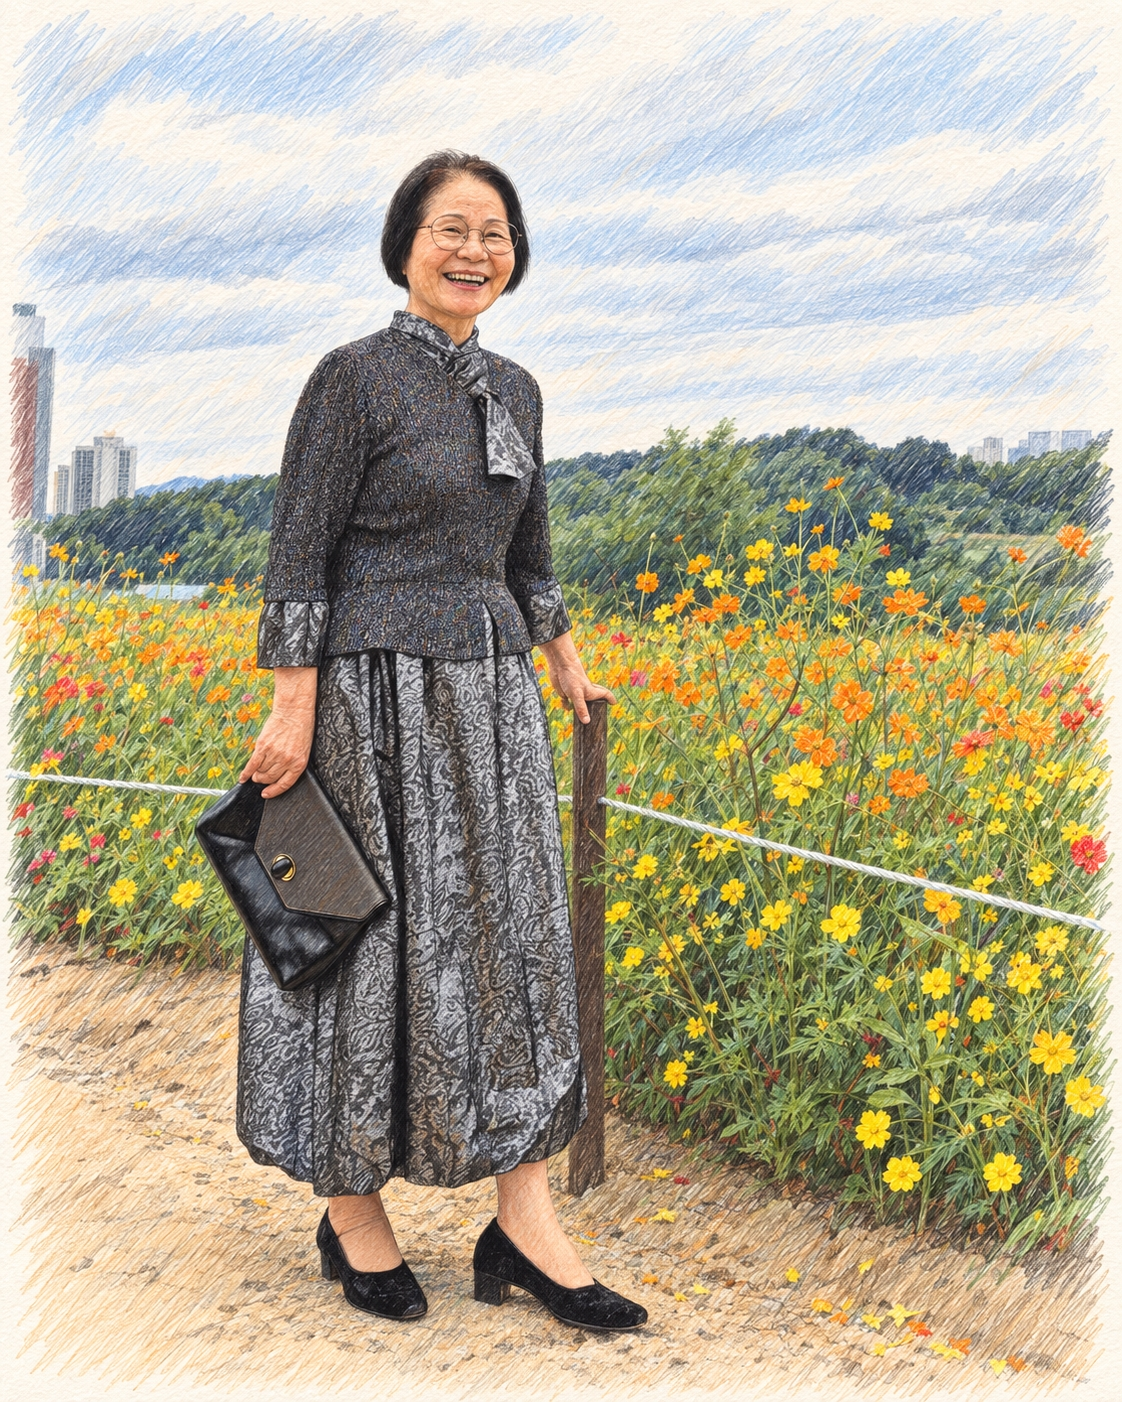
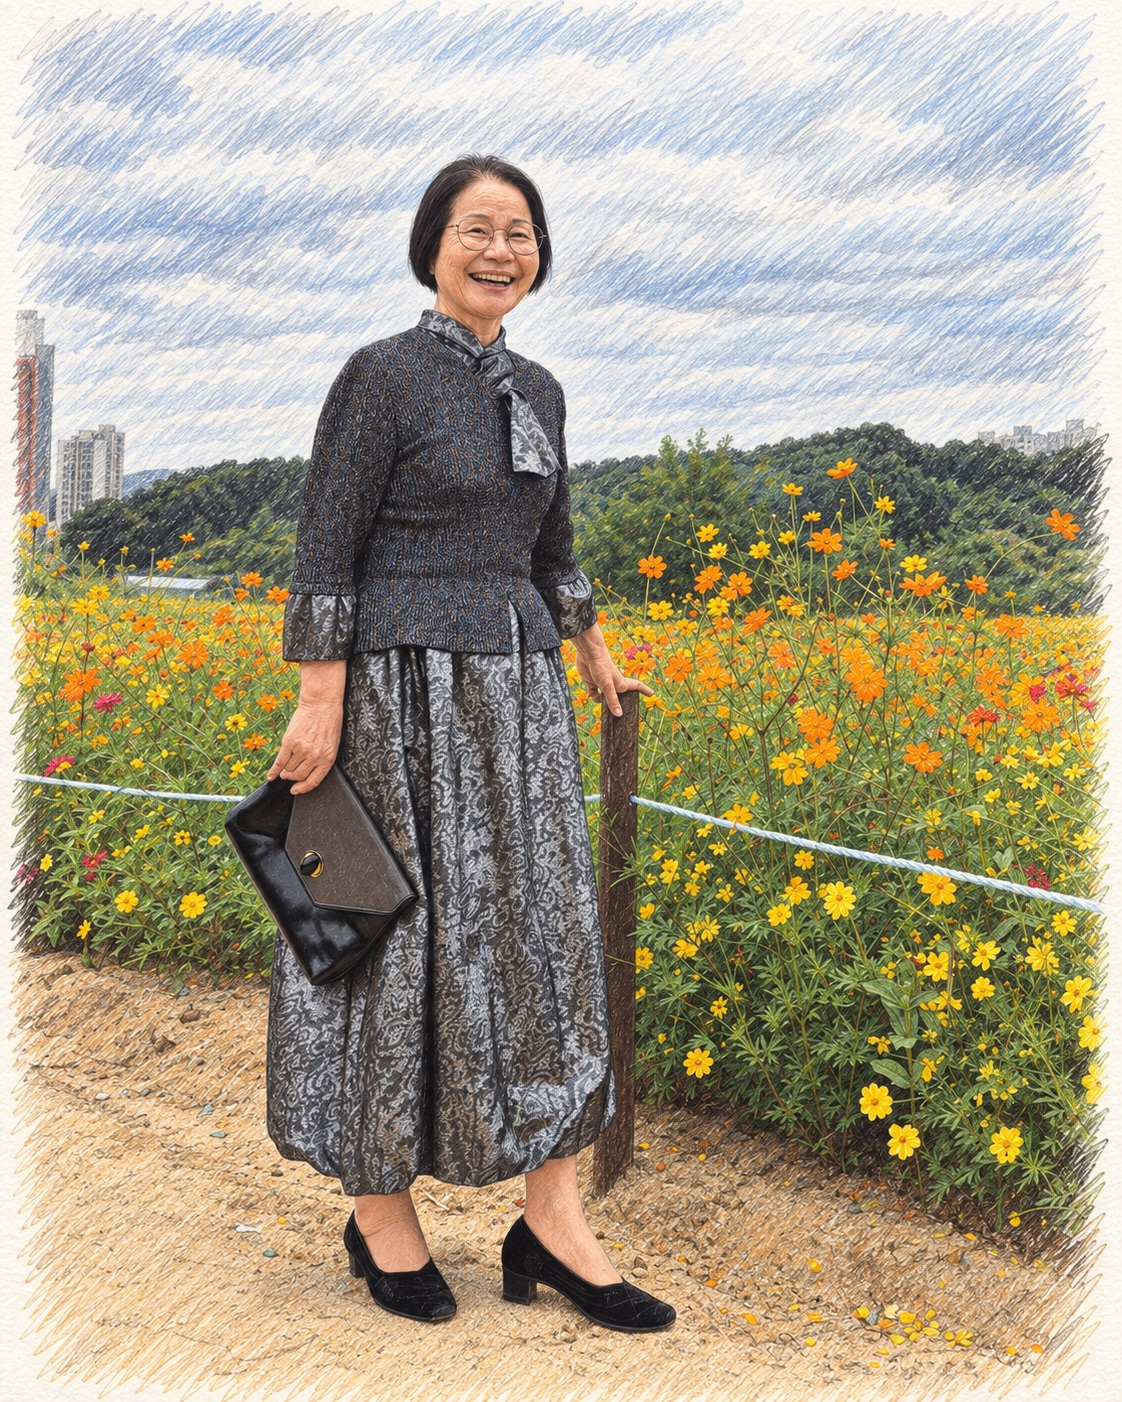
Fix face-identity consistency for photos 04/05 and add elderly-portrait retouching guideline
- Regenerate 04/05 색연필느낌 using photo 03's rendered face as an identity anchor so all three (same person) match
- Add 캔버스액자/인물보정_작업지침.md: keep original likeness, only lightly soften wrinkles, and use an anchor photo + reference image when the same person appears across multiple photos

diff --git a/캔버스액자/인물보정_작업지침.md b/캔버스액자/인물보정_작업지침.md
@@ -1,0 +1,22 @@
+# 캔버스액자 인물(어르신) 보정 작업 지침
+
+## 보정 원칙
+- 원본 사진의 얼굴 느낌(이목구비, 얼굴형, 표정)을 최대한 그대로 살린다.
+- 주름은 완전히 지우지 않고, **아주 살짝만 부드럽게 줄이는 정도**로만 보정한다.
+- 얼굴을 다른 사람처럼 바꾸거나 과도하게 젊게 만들지 않는다.
+
+## 동일 인물이 여러 장에 나올 때
+- 여러 사진에 같은 분이 등장하면(예: 여러 장소에서 찍은 사진들), 얼굴이 작게 나오거나
+  각도가 달라서 AI가 매번 얼굴을 새로 추정하면 장마다 다른 사람처럼 그려지는 문제가
+  생길 수 있다 (2026-09-20, 03/04/05번 사진에서 실제로 발생).
+- 이를 막기 위해, 같은 인물의 사진을 여러 장 작업할 때는:
+  1. 얼굴이 가장 선명하고 잘 나온 사진을 먼저 골라 기준(앵커)으로 작업한다.
+  2. 나머지 사진을 작업할 때는, 원본 사진과 함께 **기준으로 삼은 완성본(과 그 원본)을
+     "동일 인물 얼굴 참고 이미지"로 같이 제공**해서, 얼굴 정체성이 어긋나지 않게 한다.
+  3. 작업이 끝나면 같은 인물이 나온 사진들을 나란히 놓고 정말 같은 사람처럼 보이는지
+     반드시 육안으로 재확인한다.
+
+## 참고 사례
+- `수정사진\색연필느낌\KakaoTalk_20260919_083814630_03_색연필_400x500.jpg` 속
+  오른쪽 앞 어머님을 얼굴 기준으로 삼아, 04번·05번 사진을 다시 작업해 세 장 모두
+  동일 인물로 통일함.
